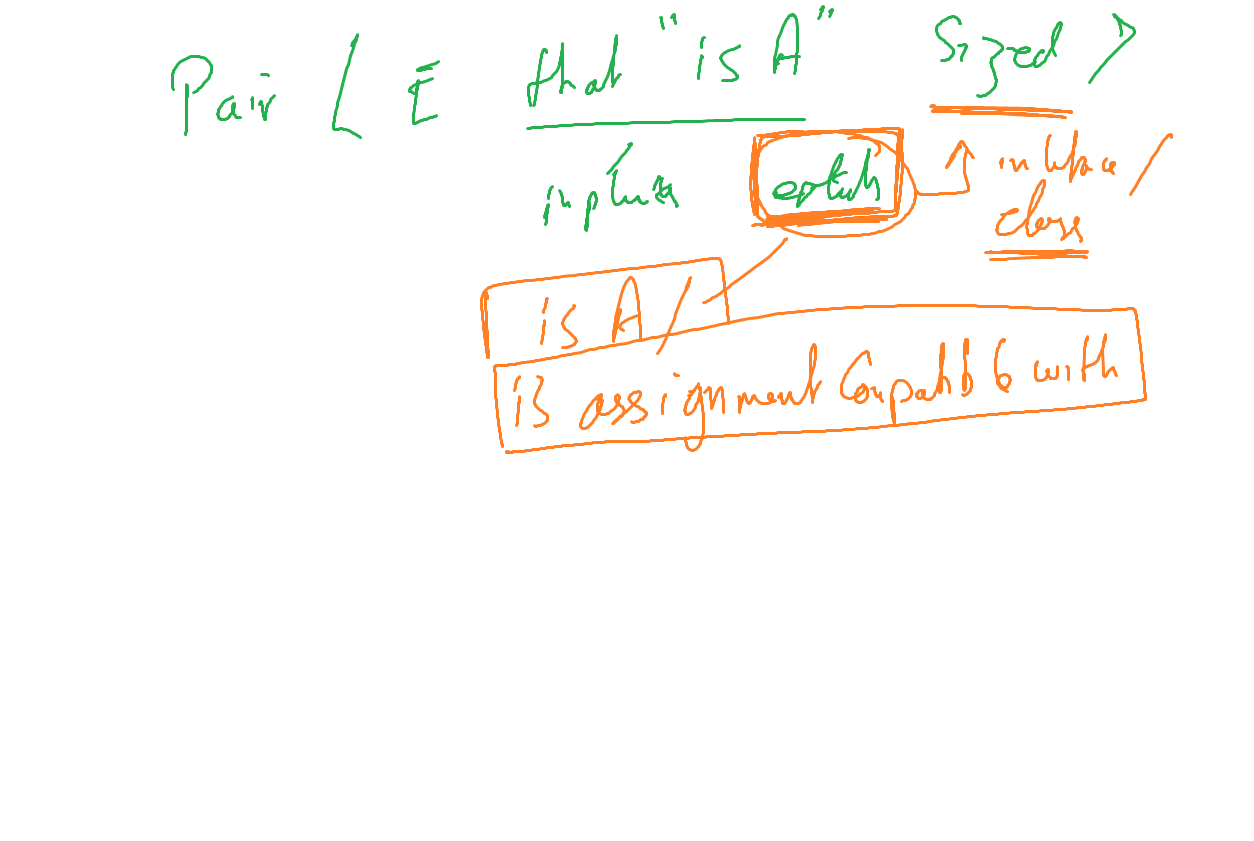
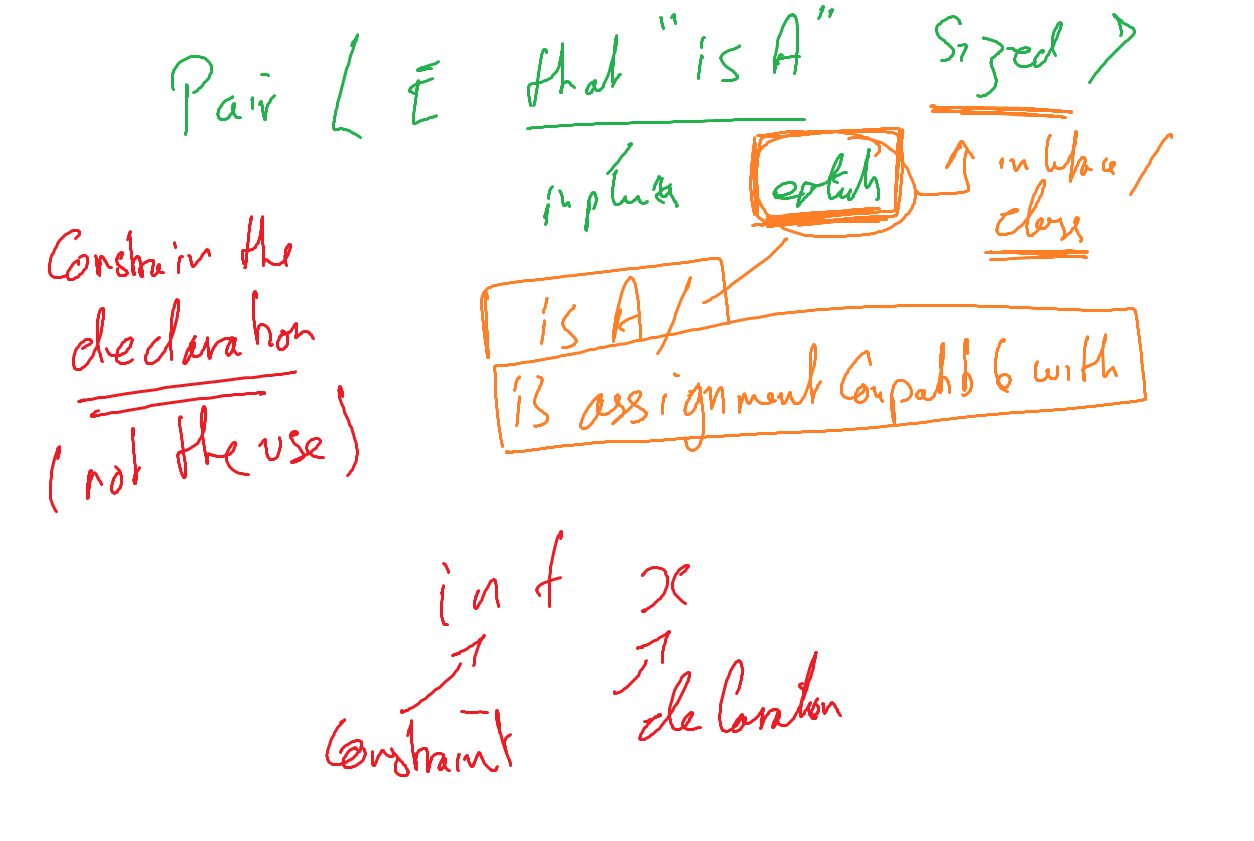
Final

diff --git a/src/main/java/taxation/TaxAdvisor.java b/src/main/java/taxation/TaxAdvisor.java
@@ -1,0 +1,48 @@
+package taxation;
+
+import java.util.ArrayList;
+import java.util.List;
+
+public class TaxAdvisor {
+  public static void computeTaxes(Taxable t) {}
+  public static void computeBulkTaxes(Taxable[] ta) {
+    for(Taxable t : ta) {
+      computeTaxes(t);
+    }
+    Corporation c = null;
+    ta[0] = c; // Potentially runtime "ArrayStoreException"
+  }
+
+  // ? extends Something "Covariance"
+  public static void computeBulkTaxes(List<? extends Taxable> lt) {
+    for(Taxable t : lt) {
+      computeTaxes(t);
+    }
+//    Taxable t = null;
+//    lt.add(t);
+  }
+
+  // Known as Contravariance
+  public static void addIndividualClients(List<? super Individual> lt) {
+    Individual t = null;
+    lt.add(t);
+
+//    Individual i1 = lt.get(0);
+  }
+
+  public static void main(String[] args) {
+    List<Taxable> clients = new ArrayList<>();
+    computeBulkTaxes(clients);
+
+    List<Individual> li = new ArrayList<>();
+    computeBulkTaxes(li);
+
+    Individual[] ia = new Individual[3];
+    computeBulkTaxes(ia);
+
+    List<Individual> liclients = new ArrayList<>();
+    addIndividualClients(liclients);
+
+    addIndividualClients(clients);
+  }
+}

diff --git a/src/main/java/simple/ToArray.java b/src/main/java/simple/ToArray.java
@@ -1,0 +1,42 @@
+package simple;
+
+import java.lang.reflect.Array;
+import java.lang.reflect.Method;
+import java.time.LocalDate;
+import java.util.Arrays;
+import java.util.List;
+
+public class ToArray {
+
+  // "heap pollution!"
+  @SafeVarargs
+  public static <E> void useStuff(E ... values) {}
+
+  public static <E> E[] asArray(List<E> l, Class<E> classTag) {
+    E[] rv = (E[])Array.newInstance(classTag, l.size());
+    for (int idx = 0; idx < rv.length; idx++) {
+      rv[idx] = l.get(idx);
+    }
+    return rv;
+  }
+
+  public static void main(String[] args) {
+    List<String> ls = Arrays.asList("Fred", "Jim", "Sheila");
+    String[] sa = asArray(ls, String.class);
+    System.out.println("Type of array is " + sa.getClass().getName());
+    for (String s : sa) {
+      System.out.println(">> " + s);
+    }
+
+//    Class<?> cl = "".getClass();
+    Class<String> cl = String.class;
+    System.out.println("Class of String is " + cl.getName());
+//    Method[] ma = cl.getMethods();
+//    for (Method m : ma) {
+//      System.out.println("> " + m);
+//    }
+
+//    sa[0] = LocalDate.now();
+//    LocalDate[] lda = asArray(ls);
+  }
+}

diff --git a/src/main/java/shopping/ClothingPair.java b/src/main/java/shopping/ClothingPair.java
@@ -1,10 +1,22 @@
 package shopping;
 
-public class ClothingPair<E extends Sized> extends Pair<E> {
+// A SINGLE class MAY be included in the constraints, but
+// must be the first-mentioned constraint
+//public class ClothingPair<F extends /*ClothingItemClass & */Sized & Colored/*, String*/> extends Pair<F> {
+public class ClothingPair<E extends ClothingItem & Sized & Colored> extends Pair<E> {
+//  String c = "Hello";
+
   public ClothingPair(E left, E right) {
     super(left, right);
   }
-  public boolean isMatched() {
-    return left.getSize() == right.getSize();
+  public /*<G> */boolean isMatched() {
+    return left.getSize() == right.getSize()
+        && left.getColor().equals(right.getColor());
+  }
+
+  public static <F extends ClothingItem & Sized & Colored>
+  boolean match(F left, F right) {
+    return left.getSize() == right.getSize()
+        && left.getColor().equals(right.getColor());
   }
 }

diff --git a/src/main/java/shopping/Store.java b/src/main/java/shopping/Store.java
@@ -10,13 +10,16 @@ public class Store {
 //    String right = p.getRight();
 //    System.out.println(p.getLeft());
 
-    ClothingPair<Shoe> ps = new ClothingPair<>(new Shoe(44, "Brown"), new Shoe(45, "Brown"));
+    ClothingPair<Shoe> ps =
+        new ClothingPair<>(new Shoe(44, "Brown"), new Shoe(45, "Brown"));
 
     System.out.println("Pair matches? " + ps.isMatched());
 
-    ClothingPair<Shoe> ps2 = new ClothingPair<>(new Shoe(45, "Brown"), new Shoe(45, "Brown"));
+    ClothingPair<Shoe> ps2 =
+        new ClothingPair<>(new Shoe(45, "Brown"), new Shoe(45, "Red"));
 
     System.out.println("Pair 2 matches? " + ps2.isMatched());
-
+    System.out.println("Loose items match? " +
+        ClothingPair.match(new Shoe(44, "Red"), new Shoe(43, "Blue")));
   }
 }

diff --git a/src/main/java/shopping/Glove.java b/src/main/java/shopping/Glove.java
@@ -1,10 +1,10 @@
 package shopping;
 
-public class Shoe extends ClothingItem implements Sized, Colored {
+public class Glove extends ClothingItem implements Sized, Colored {
   private int size;
   private String color;
 
-  public Shoe(int size, String color) {
+  public Glove(int size, String color) {
     this.size = size;
     this.color = color;
   }
@@ -19,9 +19,10 @@ public class Shoe extends ClothingItem implements Sized, Colored {
 
   @Override
   public String toString() {
-    return "Shoe{" +
+    return "Glove {" +
         "size=" + size +
         ", color='" + color + '\'' +
         '}';
   }
+
 }

diff --git a/src/main/java/shopping/StockControl.java b/src/main/java/shopping/StockControl.java
@@ -1,0 +1,20 @@
+package shopping;
+
+import java.util.ArrayList;
+import java.util.List;
+
+public class StockControl {
+
+  public static void printInventory(List<Pair<ClothingItem>> lps) {
+    for (Pair<ClothingItem> ps : lps) {
+      System.out.println("Pair: " + ps);
+    }
+    // why not allowed below
+    lps.add(new Pair<>(new Glove(5, "Blue"), new Glove(5, "Blue")));
+  }
+  public static void main(String[] args) {
+    List<Pair<Shoe>> lps = new ArrayList<>();
+    lps.add(new Pair(new Shoe(44, "Red"), new Shoe(44, "Red")));
+//    printInventory(lps); // not allowed!!!
+  }
+}

diff --git a/src/main/java/shopping/ClothingItem.java b/src/main/java/shopping/ClothingItem.java
@@ -1,0 +1,5 @@
+package shopping;
+
+public class ClothingItem {
+  private int price;
+}

diff --git a/src/main/java/taxation/Corporation.java b/src/main/java/taxation/Corporation.java
@@ -1,0 +1,4 @@
+package taxation;
+
+public interface Corporation extends Taxable {
+}

diff --git a/src/main/java/taxation/Individual.java b/src/main/java/taxation/Individual.java
@@ -1,0 +1,4 @@
+package taxation;
+
+public interface Individual extends Taxable{
+}

diff --git a/src/main/java/taxation/Taxable.java b/src/main/java/taxation/Taxable.java
@@ -1,0 +1,4 @@
+package taxation;
+
+public interface Taxable {
+}
